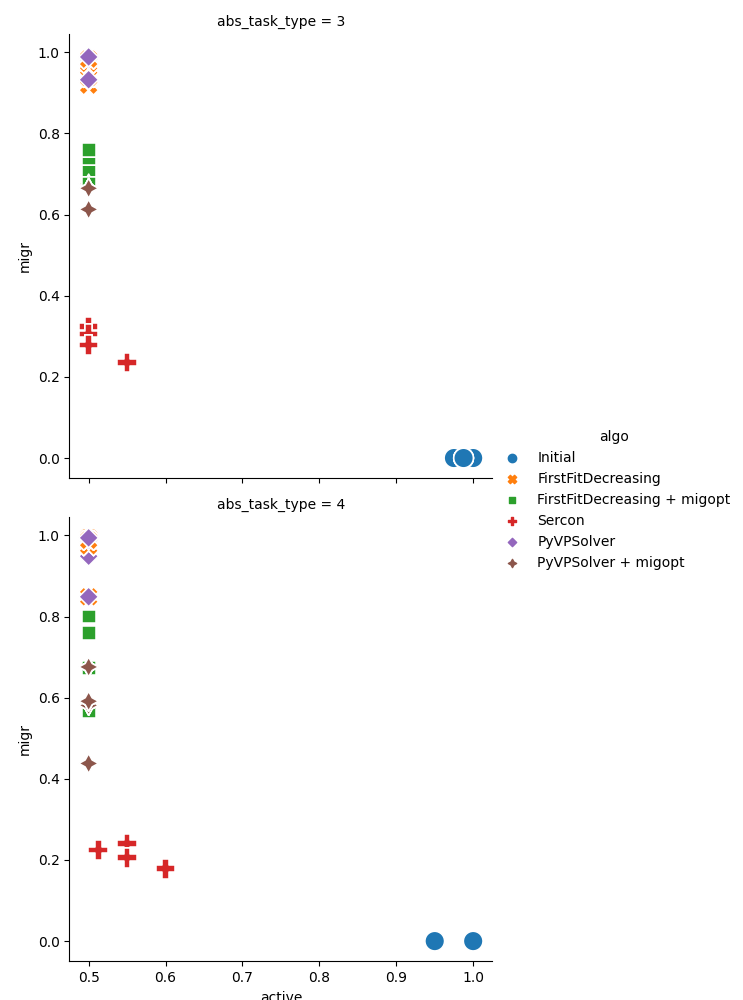
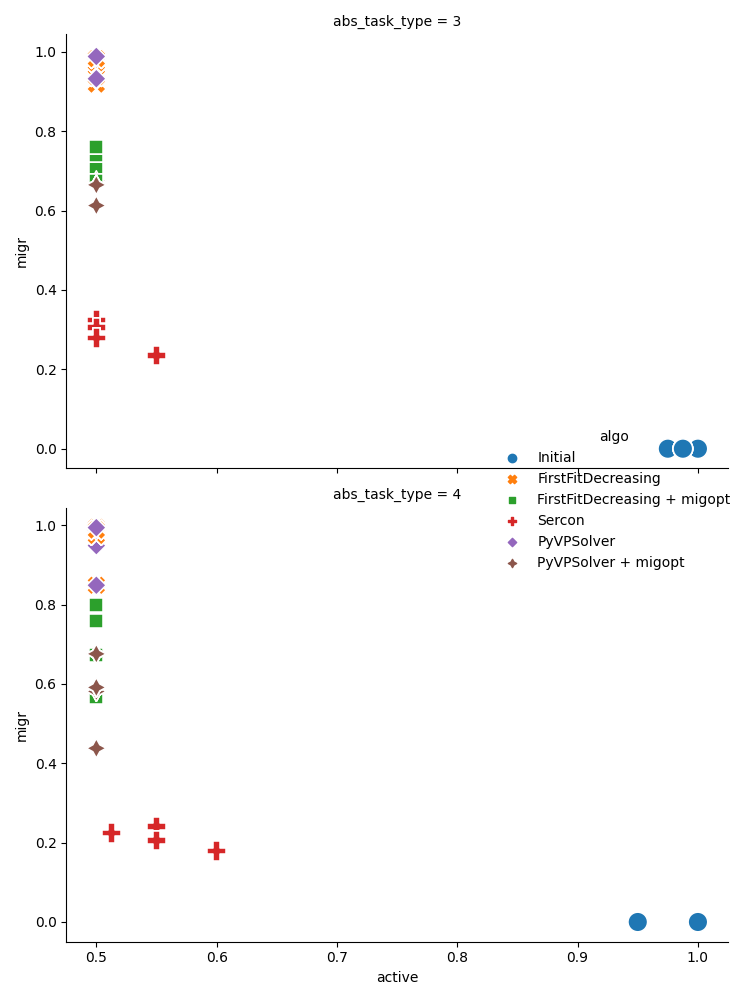
Tight layout.

diff --git a/visualise.py b/visualise.py
@@ -2,20 +2,19 @@ import matplotlib.pyplot as plt
 import pandas as pd
 import seaborn as sns
 
+
+def plot(data, x, y, filename):
+    sns.relplot(data=data, x=x, y=y, hue="algo", style="algo", row="abs_task_type", s=200)
+    plt.tight_layout()
+    plt.savefig(filename)
+
+
 df = pd.read_csv('results.csv')
 algos = {"Initial", "FirstFitDecreasing", "FirstFitDecreasing + migopt", "PyVPSolver", "PyVPSolver + migopt", "Sercon"}
 filtered_df = df[df.algo.isin(algos)]
 filtered_df = filtered_df.assign(abs_task_type=filtered_df["task_type"].abs())
 
-sns.relplot(data=filtered_df[filtered_df["task_type"] > 0], x="active", y="migr", hue="algo", style="algo",
-            row="abs_task_type", s=200)
-plt.savefig("scores_shrink.png")
-sns.relplot(data=filtered_df[filtered_df["task_type"] < 0], x="active", y="migr", hue="algo", style="algo",
-            row="abs_task_type", s=200)
-plt.savefig("scores_fullpack.png")
-sns.relplot(data=filtered_df[filtered_df["task_type"] > 0], x="host_count", y="time", hue="algo", style="algo",
-            row="abs_task_type", s=200)
-plt.savefig("times_shrink.png")
-sns.relplot(data=filtered_df[filtered_df["task_type"] < 0], x="host_count", y="time", hue="algo", style="algo",
-            row="abs_task_type", s=200)
-plt.savefig("times_fullpack.png")
+plot(filtered_df[filtered_df["task_type"] > 0], "active", "migr", "scores_shrink.png")
+plot(filtered_df[filtered_df["task_type"] < 0], "active", "migr", "scores_fullpack.png")
+plot(filtered_df[filtered_df["task_type"] > 0], "host_count", "time", "times_shrink.png")
+plot(filtered_df[filtered_df["task_type"] < 0], "host_count", "time", "times_fullpack.png")
